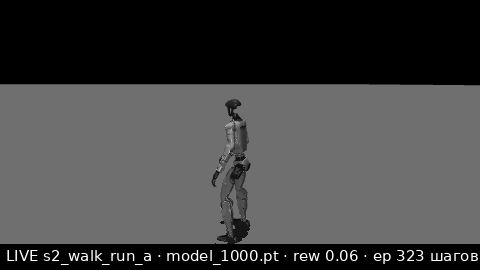
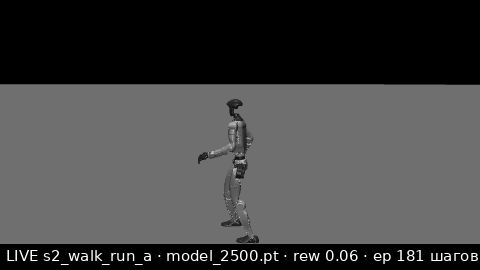
Стрим: uniform-старты эпизодов (случайное место клипа вместо кадра 0)
walk1 начинается с 4с паузы актёра — при старте с кадра 0 зритель видел
только "2 шага и стоит". Теперь эпизоды в стриме стартуют со случайного
кадра клипа (проверено: поза робота корректна, награда вменяема).

Changed region(s): [[0.4062, 0.3852, 0.5625, 0.9778], [0.8125, 0.9185, 0.9062, 0.9778], [0.9062, 0.2963, 1.0, 0.3259]]

diff --git a/src/hlc/live_stream.py b/src/hlc/live_stream.py
@@ -62,6 +62,26 @@ def build_scene():
     return spec.compile()
 
 
+def enable_uniform_starts():
+    """Стрим: стартовать эпизоды со случайного места клипа.
+
+    play-режим всегда начинает с кадра 0 — у walk1 это пауза актёра в первые
+    4 секунды (зритель видит «2 шага и стоит»). uniform-семплирование
+    разбрасывает старты по всему клипу.
+    """
+    import gc
+
+    from mujoco_playground.tasks.whole_body.tracking import motion_command
+
+    n = 0
+    for o in gc.get_objects():
+        if isinstance(o, motion_command.MotionReferenceProducer):
+            o._sampling_mode = "uniform"
+            n += 1
+    print(f"stream: uniform-старты включены ({n} producer)", flush=True)
+    return n
+
+
 def _font():
     from PIL import ImageFont
 
@@ -168,6 +188,7 @@ def rollout_loop():
                     venv = vecenv_wrapper.RslRlVecEnvWrapper(
                         env, clip_actions=agent_cfg.clip_actions,
                         cfg=entry.runner_cfg.vecenv_wrapper_cfg)
+                    enable_uniform_starts()
                     cur_stage = stage
                     ep_rew, ep_steps = 0.0, 0
                     print("stream: env готов,", stage, motion, flush=True)
